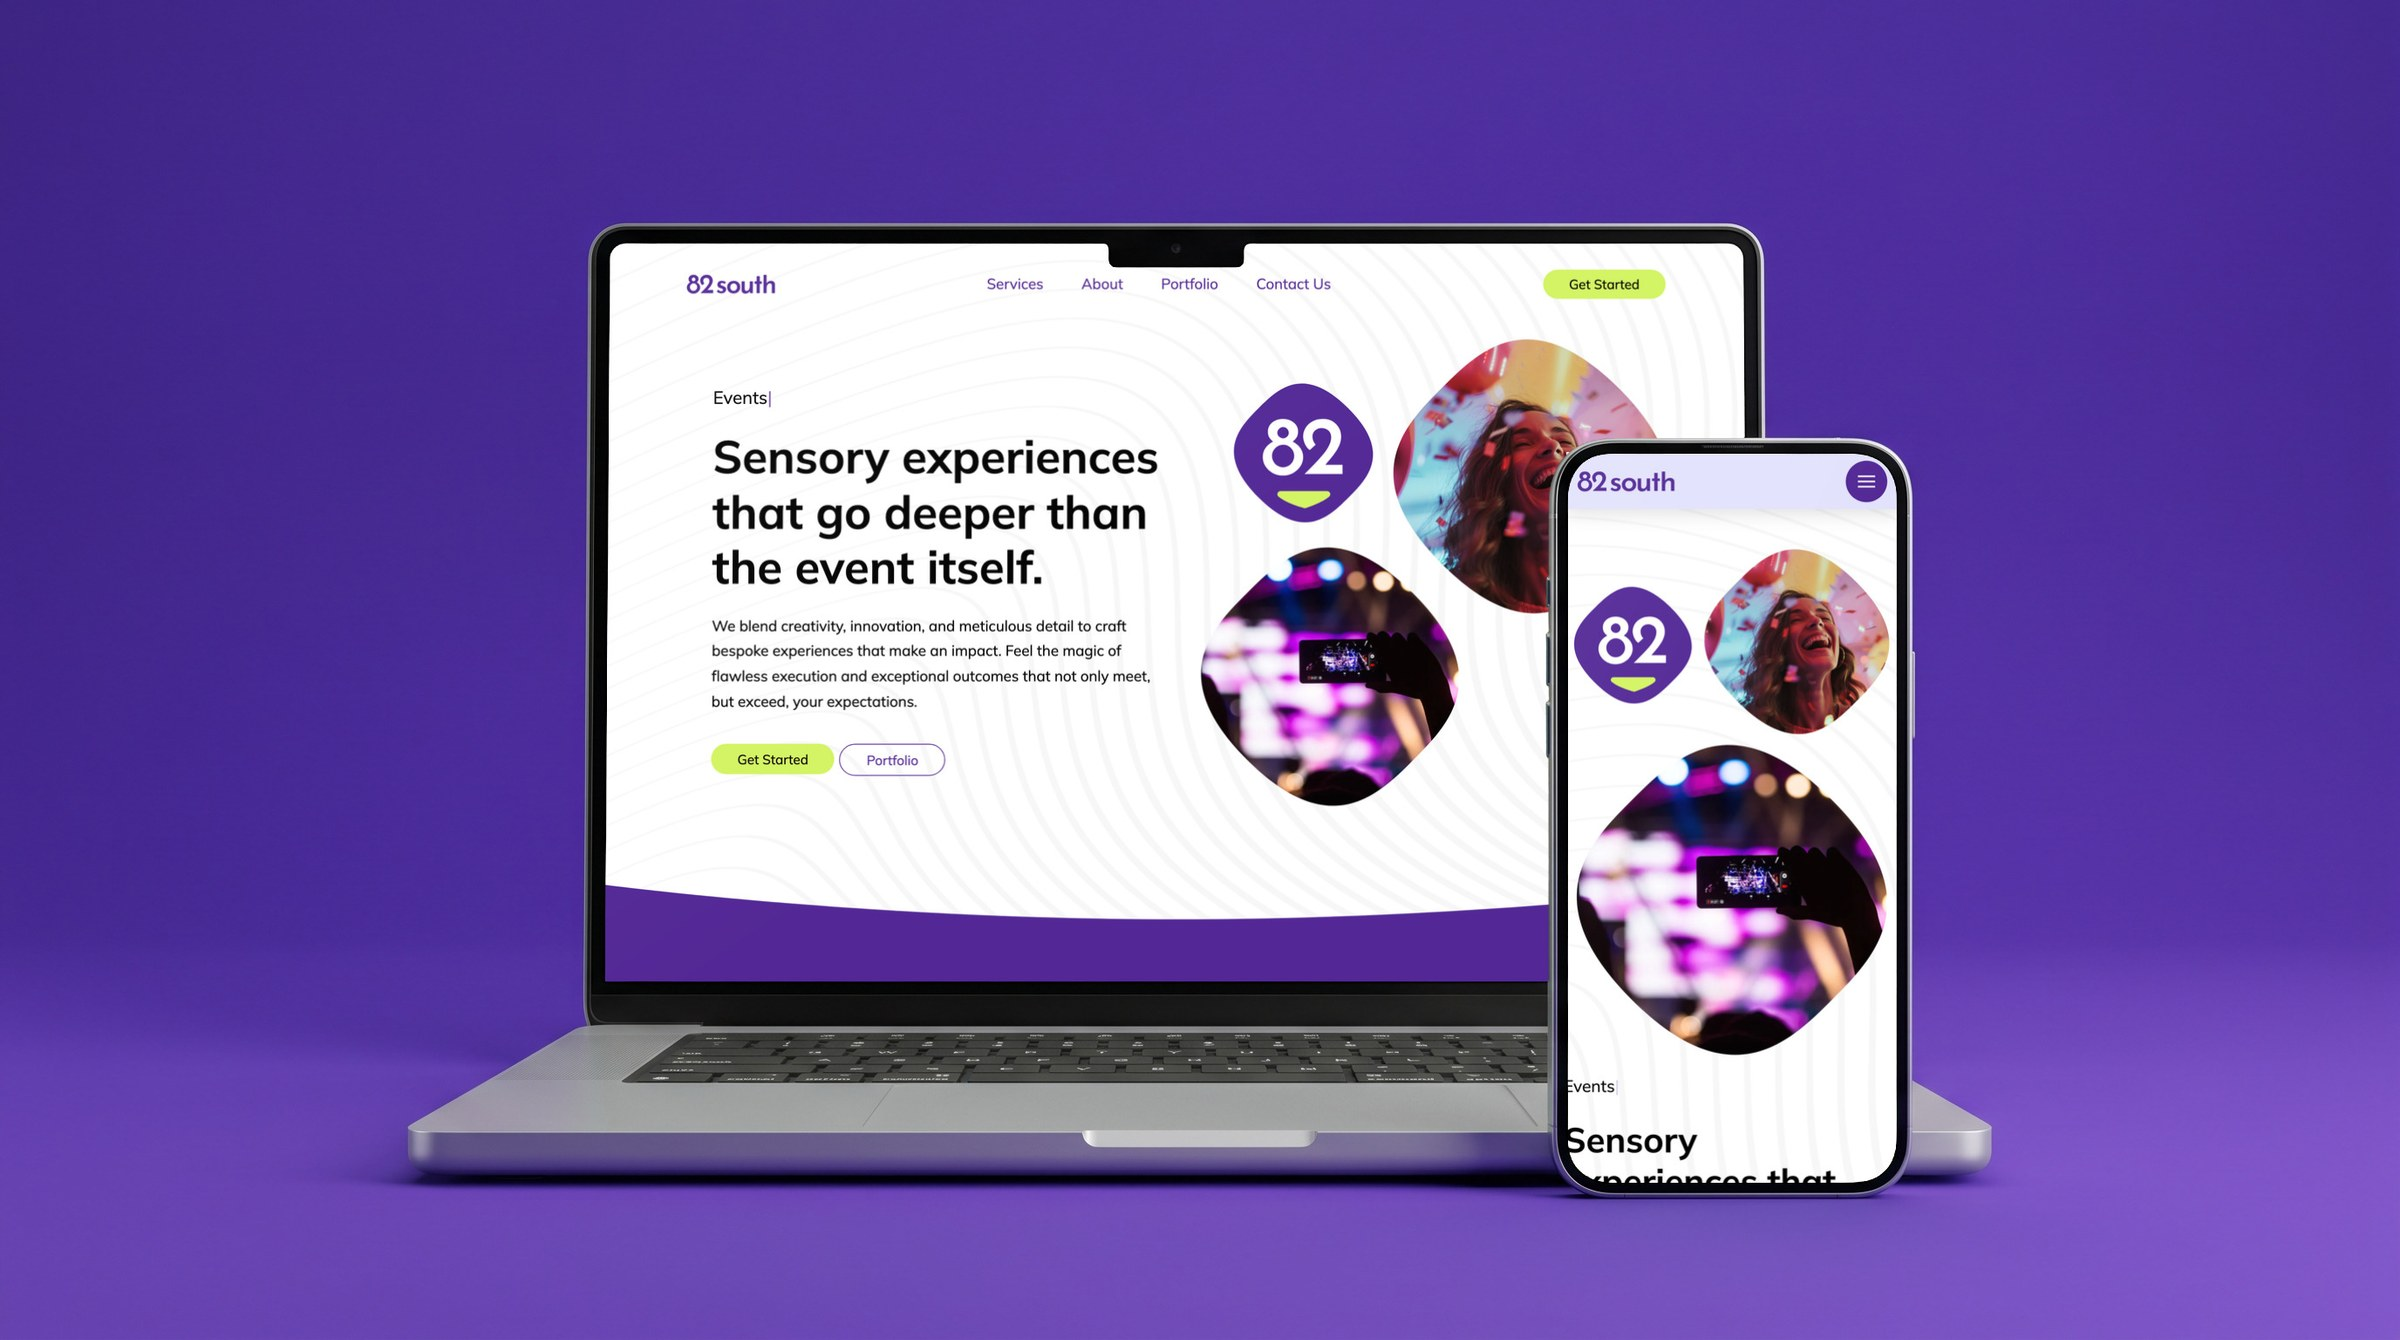
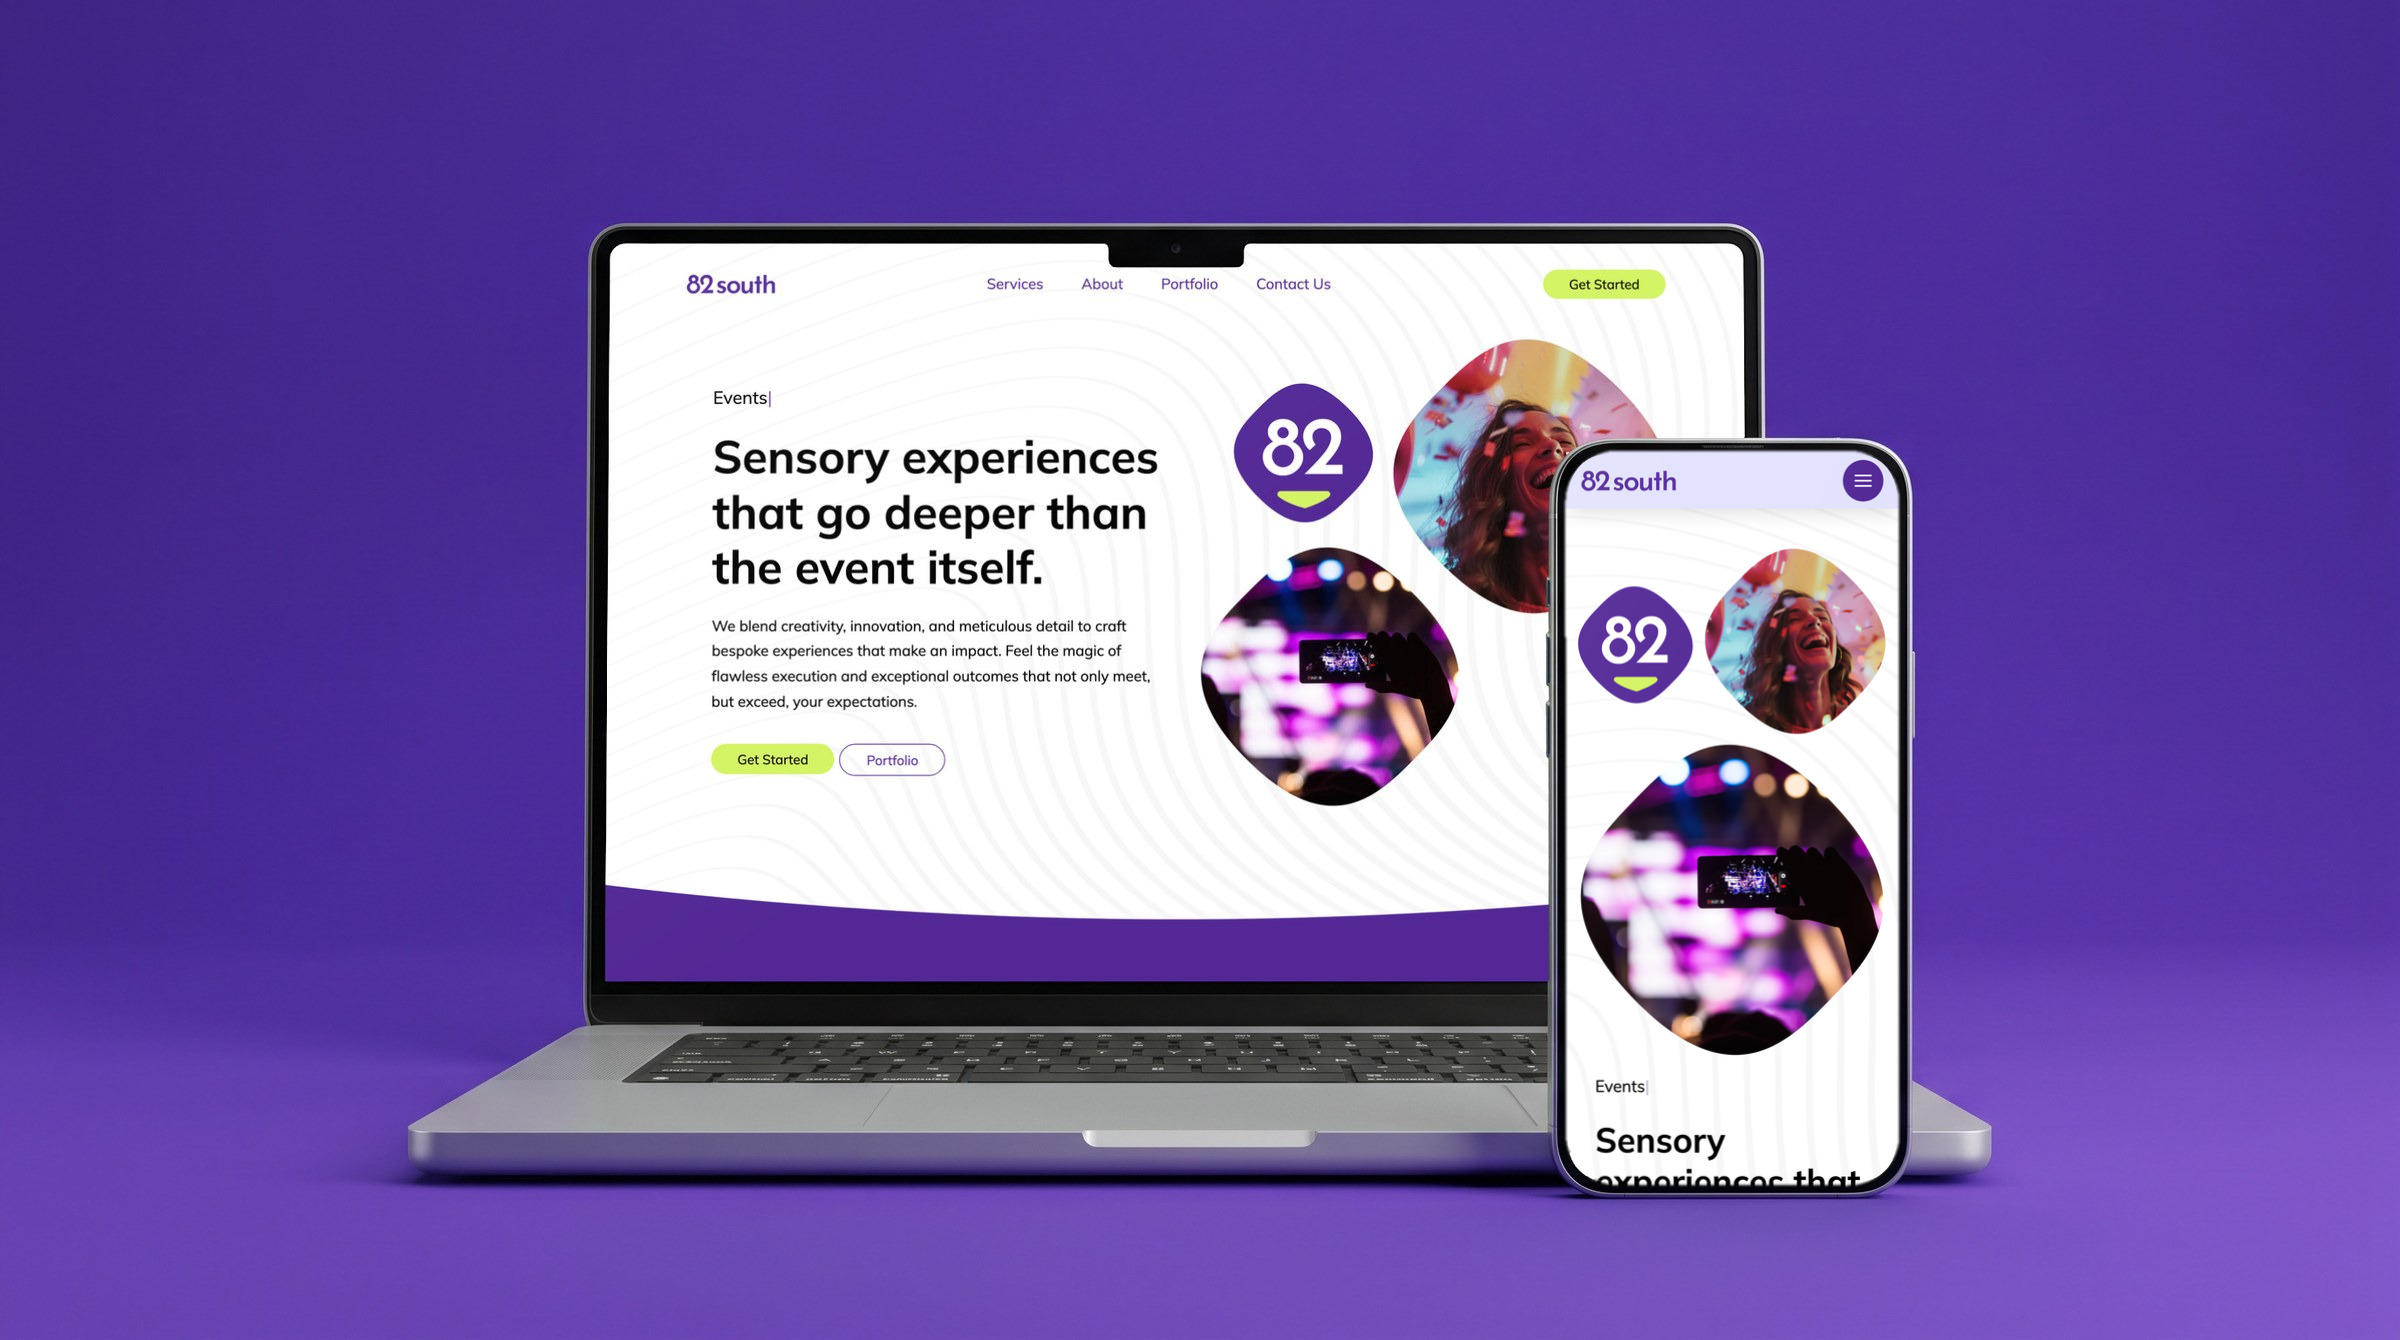
82 South fix pass 2: recaptured mobile and project shots, homepage headline crop
- Phone screens in the hero and the two-phone mockup show the live site's
  fixed mobile padding. The scenes are unchanged: a new rescreen command
  puts a fresh screenshot on a finished mockup's screen.
- Headlines that sell the feeling shows the homepage hero headline, a 3x
  crop, in place of the About page.
- Project page shot recaptured with its centered title.

diff --git a/src/content/case-studies/82-south-website/index.md b/src/content/case-studies/82-south-website/index.md
@@ -81,7 +81,7 @@ The badge's rounded shape frames the photography across the site, so even a stoc
 
 ### Headlines that sell the feeling
 
-![82 South About page headline reading At the core of every lasting moment](./about.webp)
+![82 South homepage headline reading Sensory experiences that go deeper than the event itself](./home-headline.webp)
 
 "Sensory experiences that go deeper than the event itself" moved straight from strategy to the hero.
 
